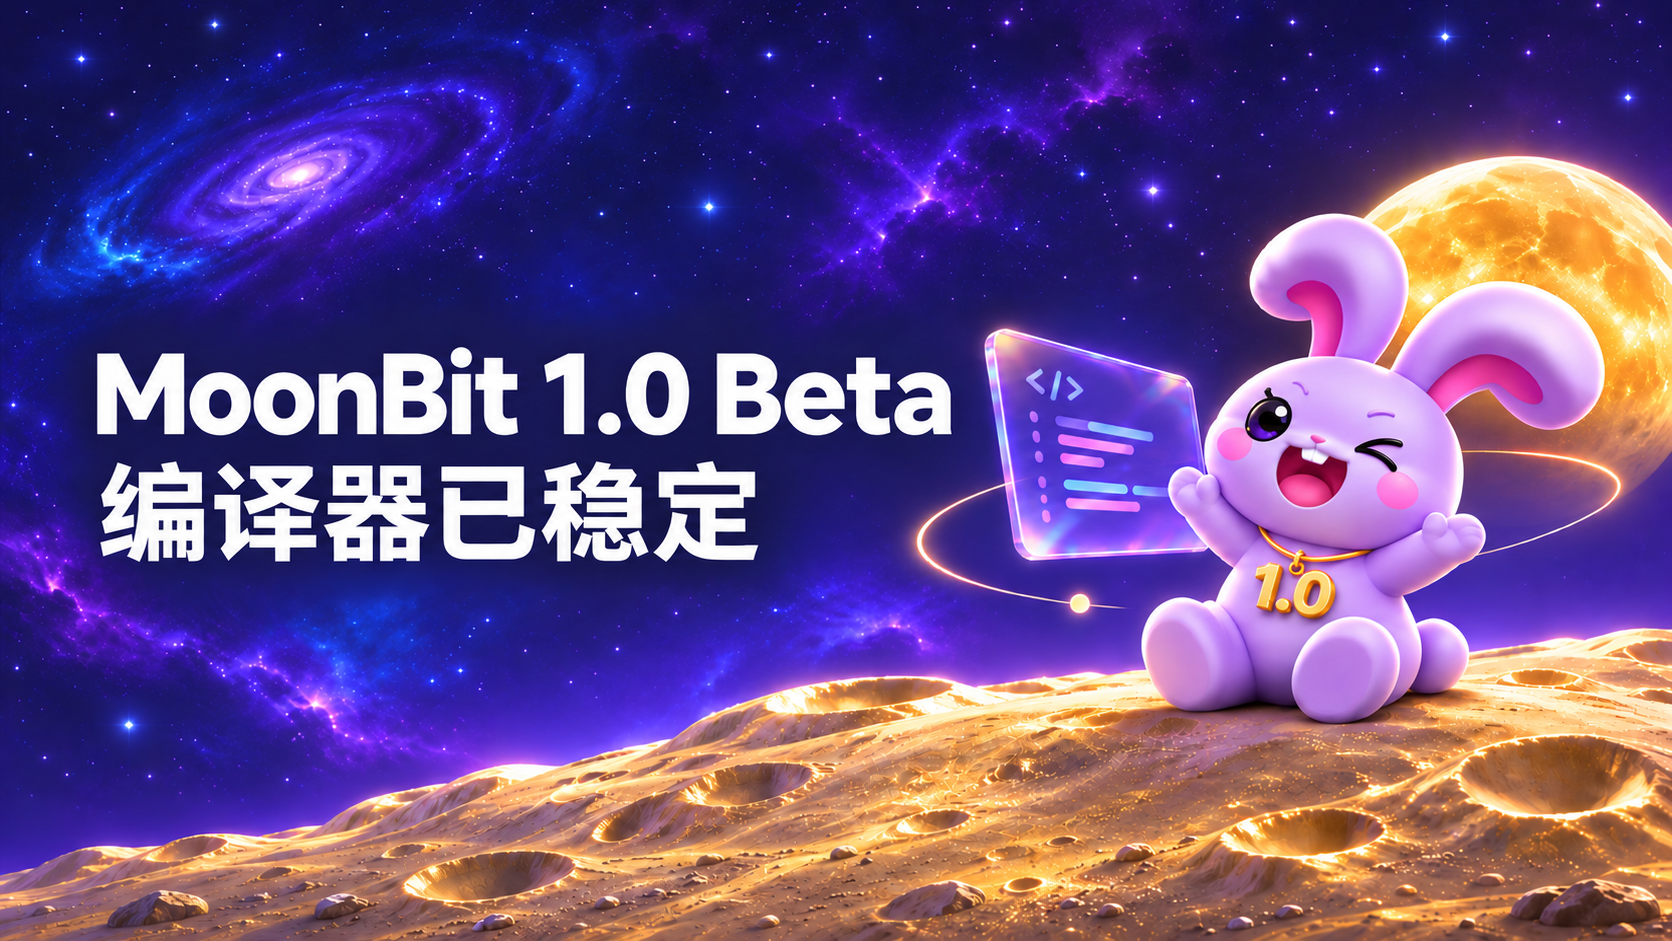
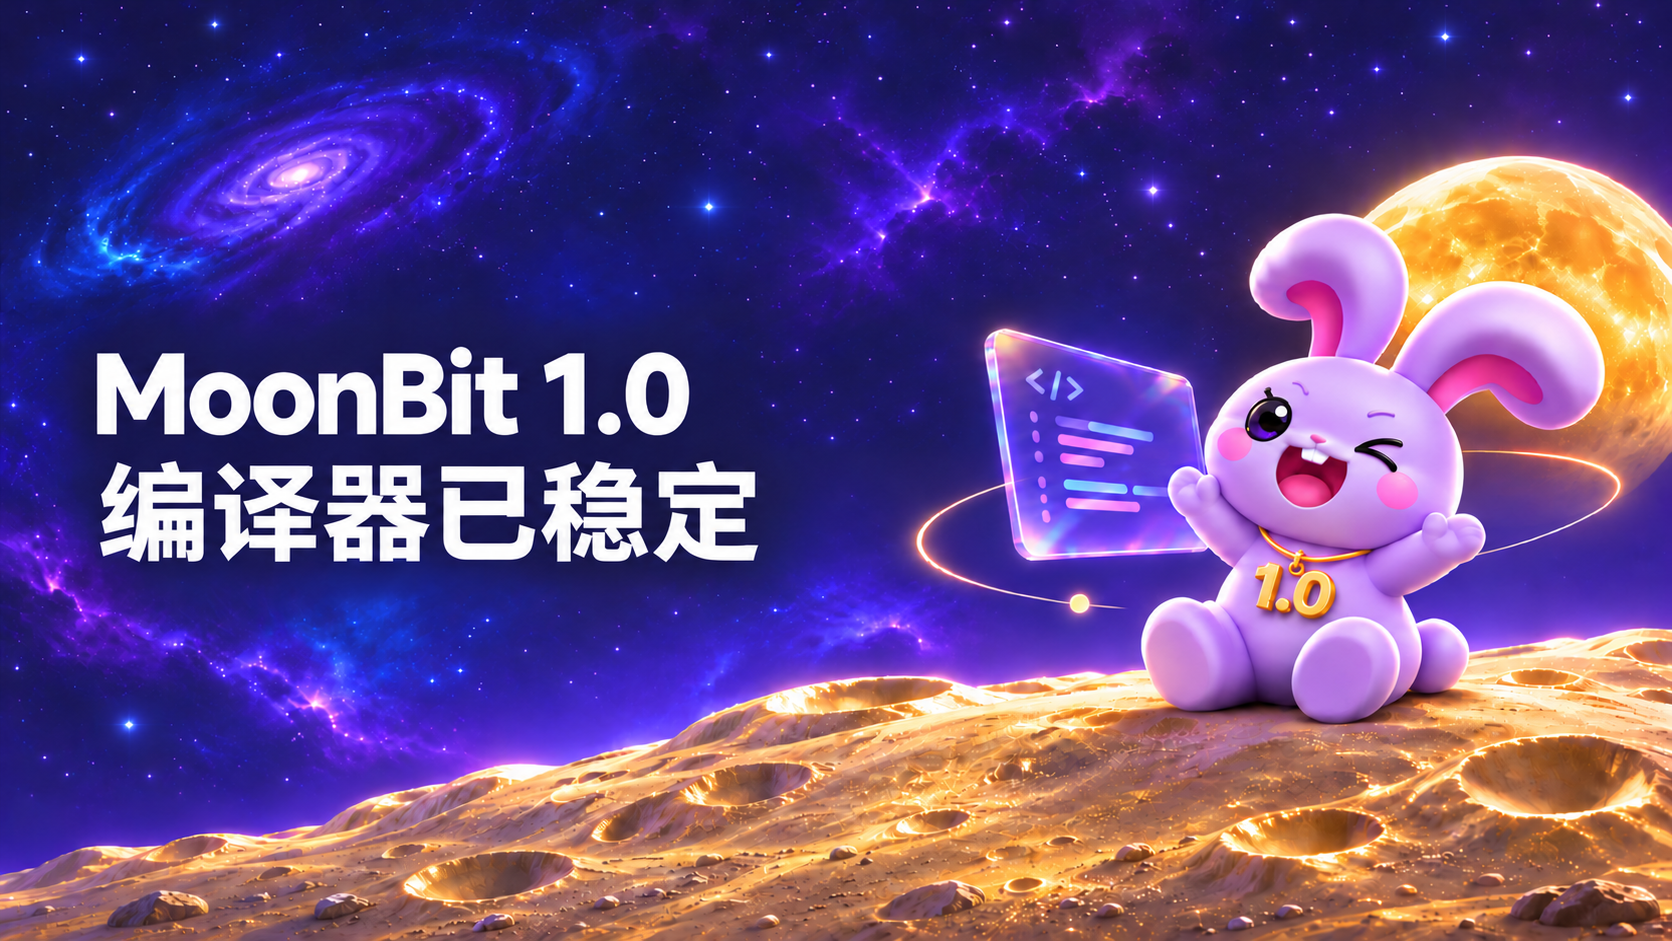
docs: update MoonBit 1.0 release candidate announcements

diff --git a/blog/2026-11-26-moonbit-1-0-beta/index.md b/blog/2026-11-26-moonbit-1-0-beta/index.md
@@ -1,5 +1,5 @@
 ---
-description: "MoonBit 1.0 Beta stabilizes the compiler and sets a target date for the full 1.0 release."
+description: "MoonBit 1.0 release candidate stabilizes the compiler and sets a target date for the full 1.0 release."
 slug: moonbit-1-0-beta
 image: /img/blogs/2026-11-26-moonbit-1-0-beta/cover.png
 tags: [MoonBit]
@@ -7,15 +7,15 @@ tags: [MoonBit]
 
 # The MoonBit 1.0 Compiler Is Stable
 
-![MoonBit 1.0 Beta. The compiler is stable.](./cover.png)
+![MoonBit 1.0. The compiler is stable.](./cover.png)
 
-Today we’re releasing MoonBit 1.0 Beta. The compiler is stable and will receive only bug fixes through the full 1.0 release. We’re targeting **February 18, 2027** for that release, including the stable core library. Experimental features such as `moon prove` are outside this guarantee and may still change.
+Today we’re releasing MoonBit 1.0 release candidate. The compiler is stable and will receive only bug fixes through the full 1.0 release. We’re targeting **February 18, 2027** for that release, including the stable core library.
 
 The core library packages are already stable except for the recently introduced `moonbitlang/core/async` and `moonbitlang/core/archive` packages. Those two packages may still receive minor API refinements alongside bug fixes.
 
 <!--truncate-->
 
-If you maintain a MoonBit package, try the beta against your test suite. When updating your package, `moon fix` is your friend. It can apply fixes suggested by the compiler. A small example that reproduces a compiler regression or shows where a core API is awkward to use will help us prepare the final release. [Installation guide](https://www.moonbitlang.com/download/) · [Report a problem](https://github.com/moonbitlang/moonbit-docs/issues) · [Discuss a core API](https://github.com/moonbitlang/core/issues)
+If you maintain a MoonBit package, try the 1.0 release candidate against your test suite. When updating your package, `moon fix` is your friend. It can apply fixes suggested by the compiler. A small example that reproduces a compiler regression or shows where a core API is awkward to use will help us prepare the final release. [Installation guide](https://www.moonbitlang.com/download/) · [Report a problem](https://github.com/moonbitlang/moonbit-docs/issues) · [Discuss a core API](https://github.com/moonbitlang/core/issues)
 
 MoonBit draws inspiration from OCaml, Rust, Swift, and ReScript. The team contributed to OCaml and created ReScript. MoonBit has two tier-1 backends (Native and Wasm) and a JS backend optimized for browsers and user interfaces.
 

diff --git a/i18n/zh/docusaurus-plugin-content-blog/2026-11-26-moonbit-1-0-beta/index.md b/i18n/zh/docusaurus-plugin-content-blog/2026-11-26-moonbit-1-0-beta/index.md
@@ -9,11 +9,11 @@ tags: [MoonBit]
 
 ![](./cover.png)
 
-11 月 26 日，MoonBit 1.0 编译器现已稳定，在 1.0 正式版发布前只修复缺陷。我们计划于 **2027 年 2 月 18 日**发布 1.0 正式版，核心库的稳定版也将同步推出。`moon prove` 等实验性功能不在这一稳定性承诺范围内，后续仍可能调整。
+11 月 26 日，MoonBit 1.0 编译器现已稳定，在 1.0 正式版发布前只修复缺陷。我们计划于 **2027 年 2 月 18 日**发布 1.0 正式版，核心库的稳定版也将同步推出。
 
 核心库中，只有近期新增的 `moonbitlang/core/async` 和 `moonbitlang/core/archive` 仍可能有小幅 API 调整，也会继续修复缺陷。其余包均已稳定。
 
-如果你维护着 MoonBit 软件包，欢迎先用 Beta 版跑一遍现有测试。更新软件包时，可以用 `moon fix` 应用编译器建议的修复。如果发现编译器出现回归，或某个核心库 API 用起来不顺手，欢迎附上一个尽量精简的示例，方便我们在正式发布前排查。 [安装指南](https://www.moonbitlang.com/download/) · [报告问题](https://github.com/moonbitlang/moonbit-docs/issues) · [讨论核心库 API](https://github.com/moonbitlang/core/issues)
+如果你维护着 MoonBit 软件包，欢迎先用 1.0 release candidate 跑一遍现有测试。更新软件包时，可以用 `moon fix` 应用编译器建议的修复。如果发现编译器出现回归，或某个核心库 API 用起来不顺手，欢迎附上一个尽量精简的示例，方便我们在正式发布前排查。 [安装指南](https://www.moonbitlang.com/download/) · [报告问题](https://github.com/moonbitlang/moonbit-docs/issues) · [讨论核心库 API](https://github.com/moonbitlang/core/issues)
 
 MoonBit 借鉴了 OCaml、Rust、Swift 和 ReScript。团队曾参与 OCaml 开发，并创建了 ReScript。MoonBit 将 Native 和 Wasm 列为一级支持后端。JS 后端则针对浏览器和用户界面做了优化。
 
